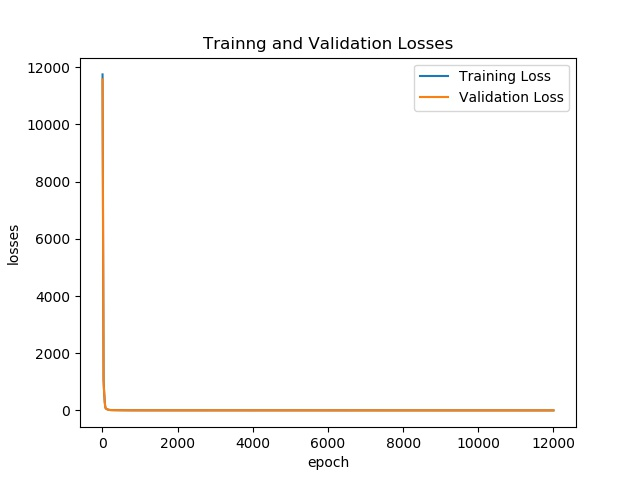
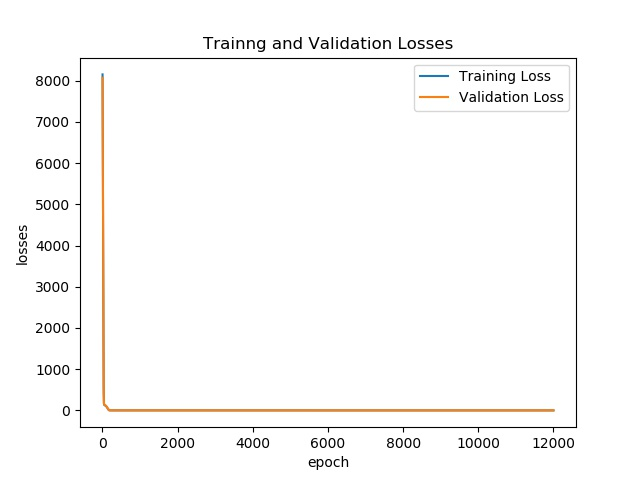
tune dense NN iwth rand init

diff --git a/TCN/prey_pred_model/prey_pred_data.py b/TCN/prey_pred_model/prey_pred_data.py
@@ -10,11 +10,10 @@ def dfunc(y, t, a=0.25, b=0.12, c=0.0025, d=0.0013):
     return [f0, f1]
 
 
-def prey_pred_data_constinit(examples, seq_length, yinit=[80, 50], t_range=(0.0, 200.0), add_dt=False):
+def prey_pred_data_constinit(examples, seq_length, yinit=[80, 50], t_range=(0.0, 200.0), add_dt=False, N=3000):
     # create a time series format of the solutions of ODE
 
     # ODE calculation
-    N = examples+seq_length+1  # Number of data points
     t = np.linspace(t_range[0], t_range[1], N)   # time grid
     ysol = odeint(dfunc, yinit, t)
     y0 = ysol[:, 0]
@@ -41,7 +40,7 @@ def prey_pred_data_constinit(examples, seq_length, yinit=[80, 50], t_range=(0.0,
     return X, y
 
 
-def prey_pred_data_randinit(examples, seq_length, yinit=[80, 50], t_range=(0.0, 200), add_dt=False):
+def prey_pred_data_randinit(examples, seq_length, yinit=[80, 50], t_range=(0.0, 200.0), add_dt=False):
     # create times eries data of ODE solutions with different random initialization batch
     batch_no = 100
     batch_samples = m.floor(examples / batch_no)
@@ -63,8 +62,10 @@ def prey_pred_data_randinit(examples, seq_length, yinit=[80, 50], t_range=(0.0, 
             (batch_data[0], batch_data[1].reshape(batch_samples, 2, 1)), axis=2)
         full_data[batch_samples*i:(batch_samples*(i+1))] = batch_data
     if examples % batch_no:
+        y0, y1 = u_min + (u_max-u_min)*np.random.rand(1), u_min + \
+            (u_max-u_min)*np.random.rand(1)
         batch_data = prey_pred_data_constinit(
-            (examples % batch_no), seq_length, yinit=yinit, add_dt=add_dt)
+            (examples % batch_no), seq_length, yinit=[y0.item(), y1.item()], add_dt=add_dt)
         # Concatenate X, y output from prey_pred_data 
         batch_data = np.concatenate(
             (batch_data[0], batch_data[1].reshape(batch_samples, 2, 1)), axis=2)

diff --git a/TCN/prey_pred_model/prey_pred_sequence_randInit_denseNN.py b/TCN/prey_pred_model/prey_pred_sequence_randInit_denseNN.py
@@ -145,8 +145,8 @@ plt.savefig('rand_init_denseNN/prey_pred_losses_randInit.jpg')
 # data = (x,y)
 # X_test = X[training_examples:,:,:]
 # without dt
-data = prey_pred_data_constinit(total_examples, seq_length)
-X_test = data[0][training_examples:,:,:].float()
+data = prey_pred_data_constinit(total_examples, seq_length, N=6200)
+X_test = torch.from_numpy(data[0][training_examples:,:,:]).float()
 if args.cuda:
     X_test = X_test.cuda()
 model.eval()
